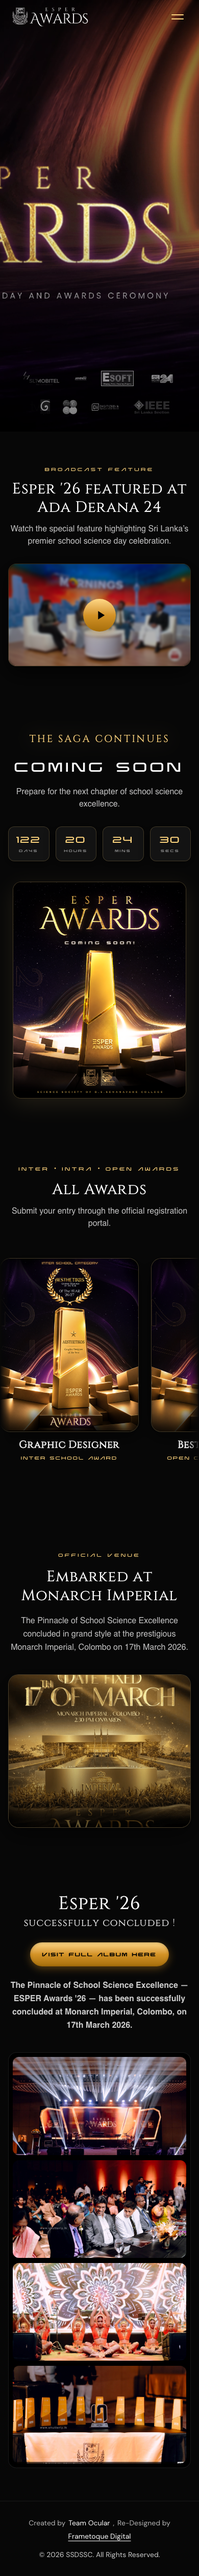
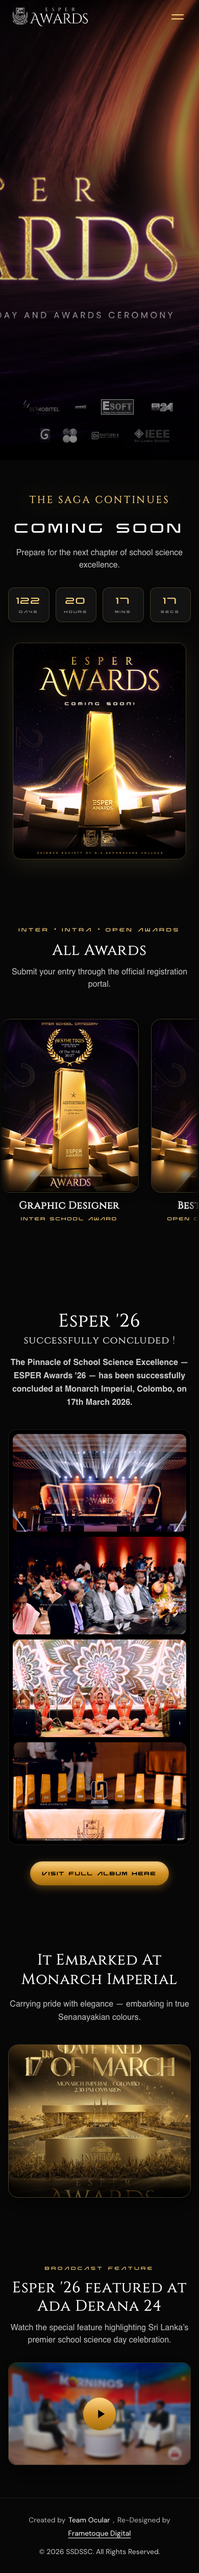
feat(esper): update homepage section order, venue copy, and move album button after gallery

diff --git a/next-app/src/components/esper/ConcludedSection.tsx b/next-app/src/components/esper/ConcludedSection.tsx
@@ -21,7 +21,7 @@ export default function ConcludedSection() {
   return (
     <section className="w-full max-w-[1160px] mx-auto px-4 py-16 md:py-24 box-border relative z-10 flex flex-col items-center text-center">
       {/* Title */}
-      <div className="flex flex-col items-center gap-2 mb-6">
+      <div className="flex flex-col items-center gap-2 mb-4">
         <h2 className="font-['Constantine',serif] flex flex-col items-center text-center leading-none">
           <span className="text-4xl sm:text-5xl md:text-6xl text-white tracking-[0.02em]">
             Esper &apos;26
@@ -30,18 +30,6 @@ export default function ConcludedSection() {
             successfully concluded !
           </span>
         </h2>
-      </div>
-
-      {/* Button to Album */}
-      <div className="mb-6">
-        <a
-          href="https://www.facebook.com/share/p/1Cfd1XF45A/?mibextid=wwXIfr"
-          target="_blank"
-          rel="noopener noreferrer"
-          className="inline-flex items-center justify-center font-['Nebula',sans-serif] text-[13px] tracking-[0.08em] uppercase text-black font-semibold px-6 py-3.5 rounded-full bg-gradient-to-b from-[#ffd885] via-[#d49326] to-[#a66e0a] shadow-[inset_0px_1px_5px_rgba(0,0,0,0.25),0_4px_16px_rgba(212,147,38,0.4)] hover:brightness-110 hover:scale-105 transition-all duration-200"
-        >
-          Visit Full Album Here
-        </a>
       </div>
 
       {/* Description */}
@@ -82,6 +70,18 @@ export default function ConcludedSection() {
             />
           </div>
         ))}
+      </div>
+
+      {/* View Album Button - Placed AFTER gallery */}
+      <div className="mt-8 md:mt-10">
+        <a
+          href="https://www.facebook.com/share/p/1Cfd1XF45A/?mibextid=wwXIfr"
+          target="_blank"
+          rel="noopener noreferrer"
+          className="inline-flex items-center justify-center font-['Nebula',sans-serif] text-[13px] tracking-[0.08em] uppercase text-black font-semibold px-6 py-3.5 rounded-full bg-gradient-to-b from-[#ffd885] via-[#d49326] to-[#a66e0a] shadow-[inset_0px_1px_5px_rgba(0,0,0,0.25),0_4px_16px_rgba(212,147,38,0.4)] hover:brightness-110 hover:scale-105 transition-all duration-200"
+        >
+          Visit Full Album Here
+        </a>
       </div>
     </section>
   );

diff --git a/next-app/src/components/esper/VenueSection.tsx b/next-app/src/components/esper/VenueSection.tsx
@@ -6,14 +6,11 @@ export default function VenueSection() {
       <div className="flex flex-col md:flex-row items-center justify-between gap-10 md:gap-14">
         {/* Content */}
         <div className="flex-1 flex flex-col items-center md:items-start text-center md:text-left gap-4">
-          <span className="font-['Nebula',sans-serif] text-[12px] tracking-[0.22em] uppercase text-[#ffd57e]">
-            OFFICIAL VENUE
-          </span>
           <h2 className="font-['Constantine',serif] text-3xl sm:text-4xl md:text-5xl text-white tracking-[0.02em] font-normal leading-tight">
-            Embarked at Monarch Imperial
+            It Embarked At Monarch Imperial
           </h2>
           <p className="font-['Plus_Jakarta_Sans',sans-serif] text-base md:text-lg text-white/75 leading-relaxed max-w-lg">
-            The Pinnacle of School Science Excellence concluded in grand style at the prestigious Monarch Imperial, Colombo on 17th March 2026.
+            Carrying pride with elegance &mdash; embarking in true Senanayakian colours.
           </p>
         </div>
 

diff --git a/next-app/src/app/esper/page.tsx b/next-app/src/app/esper/page.tsx
@@ -15,11 +15,11 @@ export default function EsperHomePage() {
   return (
     <main className="min-h-screen bg-[#070707] text-white flex flex-col selection:bg-[#ffd57e]/30 selection:text-[#ffd57e]">
       <HeroSection />
-      <DeranaSection />
       <CountdownSection />
       <AwardsSection />
-      <VenueSection />
       <ConcludedSection />
+      <VenueSection />
+      <DeranaSection />
       <Footer />
     </main>
   );
